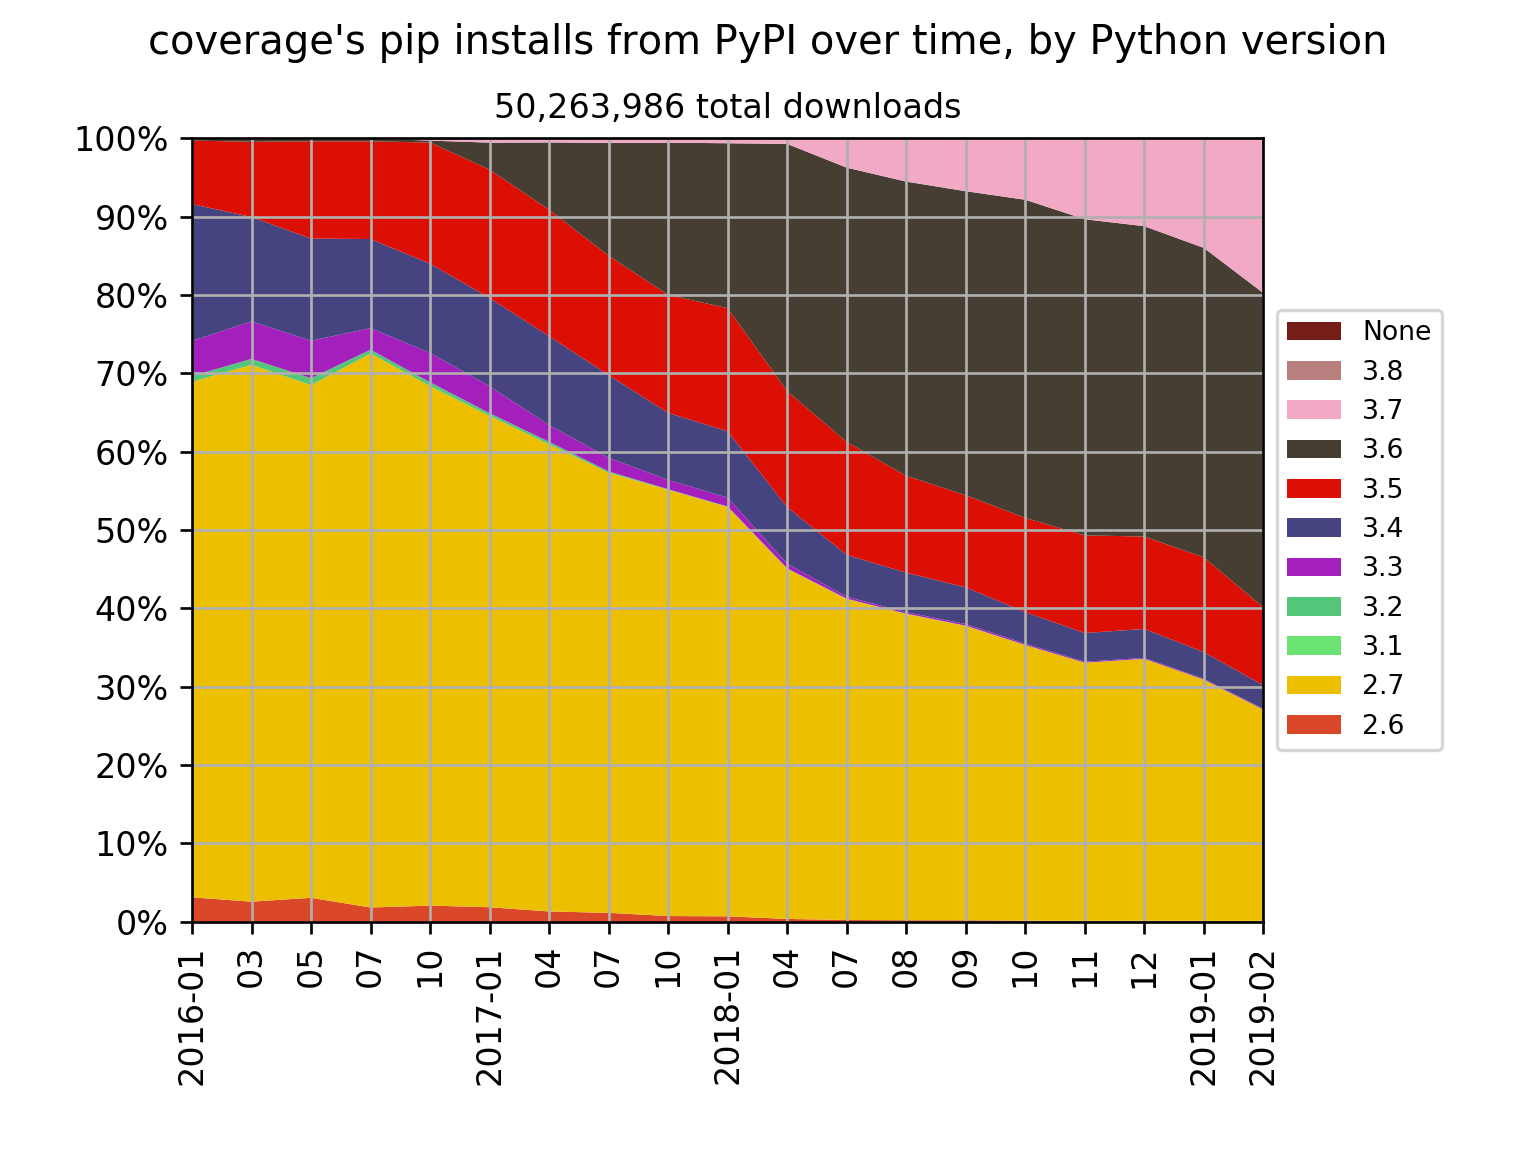
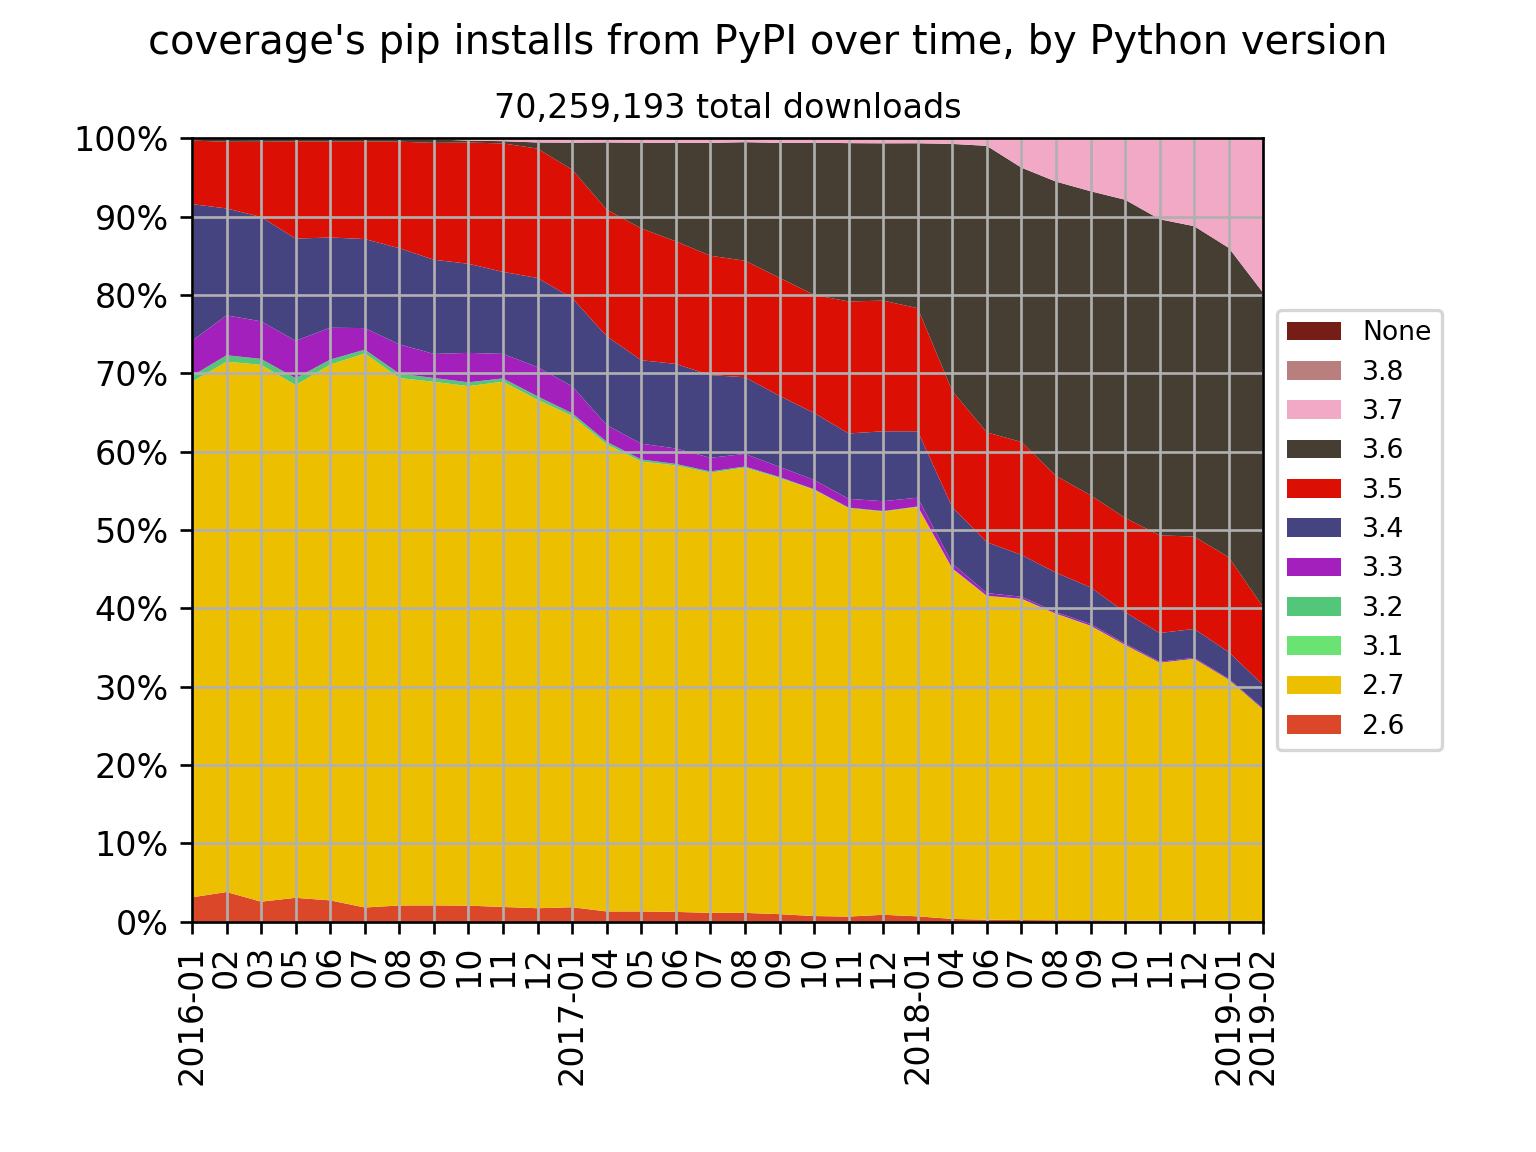
Add Coverage.py data

Changed region(s): [[0.125, 0.0625, 0.8125, 0.9375]]

diff --git a/README.md b/README.md
@@ -28,33 +28,37 @@ from January 2016 onwards:
 
 ![Chart showing pip installs for Python 3 increasing from under 10% to around 35%](data/pip-install-all.png)
 
-For the [NumPy](https://github.com/numpy/numpy) scientific computing library:
+### [NumPy](https://github.com/numpy/numpy) scientific computing library
 
 !["Chart showing pip installs for Python 3 increasing from under 20% to around 55%"](data/pip-install-numpy.png)
 
-For the [pytest](https://github.com/pytest-dev/pytest) testing framework:
+### [pytest](https://github.com/pytest-dev/pytest) testing framework
 
 ![](data/pip-install-pytest.png)
 
-For the [Pillow](https://github.com/python-pillow/Pillow) imaging library:
+### [Pillow](https://github.com/python-pillow/Pillow) imaging library
 
 !["Chart showing pip installs for Python 3 increasing from under 20% to around 55%"](data/pip-install-pillow.png)
 
-For the [Django](https://github.com/python-pillow/Pillow) web framework:
+### [Django](https://github.com/python-pillow/Pillow) web framework
 
 !["Chart showing pip installs for Python 3 increasing from under 30% to around 65%"](data/pip-install-django.png)
 
-For the [Matplotlib](https://github.com/matplotlib/matplotlib) 2D plotting library:
+### [Matplotlib](https://github.com/matplotlib/matplotlib) 2D plotting library
 
 ![](data/pip-install-matplotlib.png)
 
-For the [Pylint](https://github.com/PyCQA/pylint/) linter:
+### [Pylint](https://github.com/PyCQA/pylint/) linter
 
 ![](data/pip-install-pylint.png)
 
-And for the [pylast](https://github.com/pylast/pylast) interface to Last.fm:
+### [pylast](https://github.com/pylast/pylast) interface to Last.fm
 
 !["Chart showing pip installs for Python 3 increasing from under 20% to over 50%"](data/pip-install-pylast.png)
+
+### [Coverage.py](https://github.com/nedbat/coveragepy) code coverage measurement
+
+![](data/pip-install-coverage.png)
 
 ## See also
 
